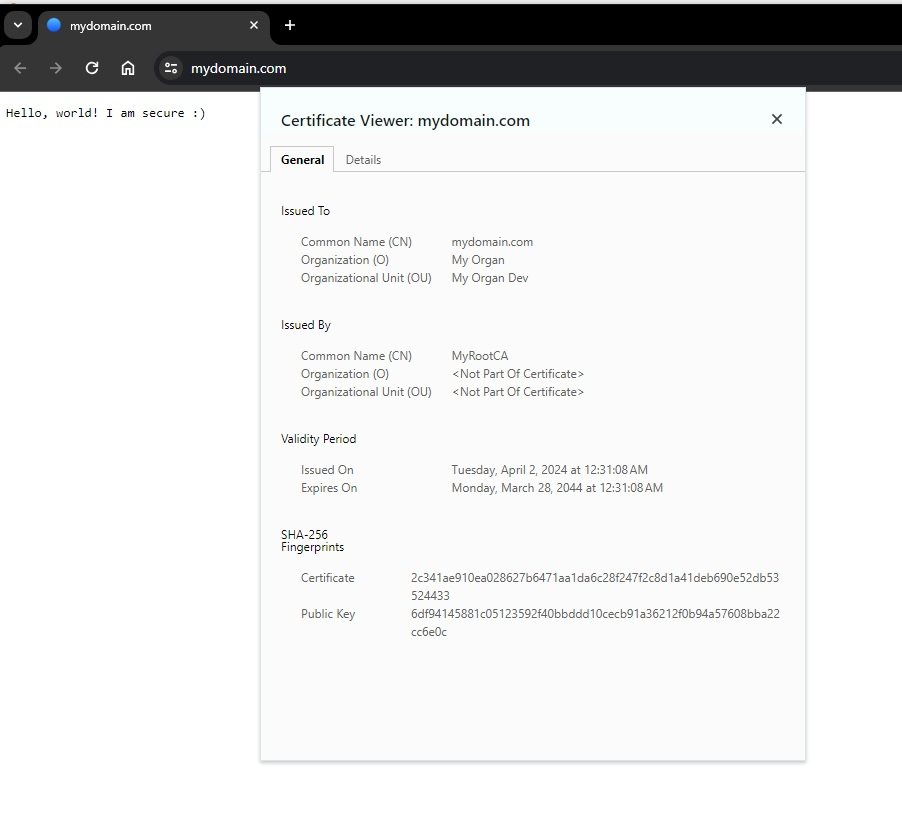
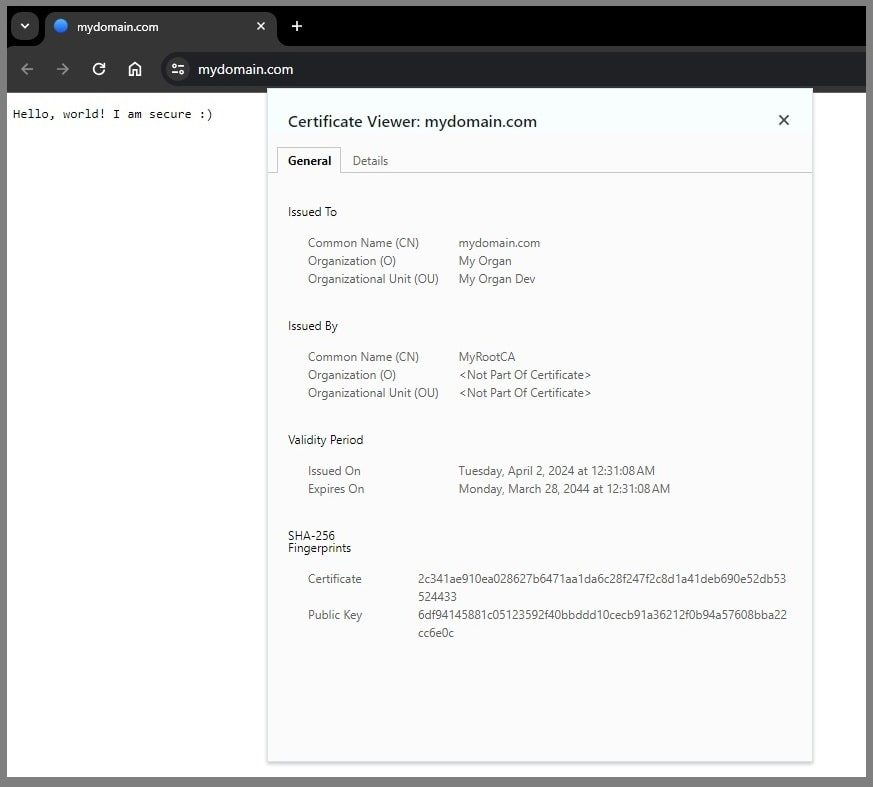
fix images

diff --git a/README.md b/README.md
@@ -27,7 +27,7 @@ Before installing certificate:
 
 Now you need to install `rootCA.crt` in trusted certificate and close all browser instances.
 
-![Alt text](installCertificate.jpg?raw=true "Root Ca installed on Trusted area")
+![Alt text](installCertificate.jpg?raw=true "Before Install")
 
 
 Then just use `server.key` and `server.crt` in you'r server.
@@ -36,4 +36,4 @@ You can see the example in `index.js` file here.
 
 After installing certificate:
 
-![Alt text](before.jpg?raw=true "Root Ca installed on Trusted area")
+![Alt text](before.jpg?raw=true "After Install")
